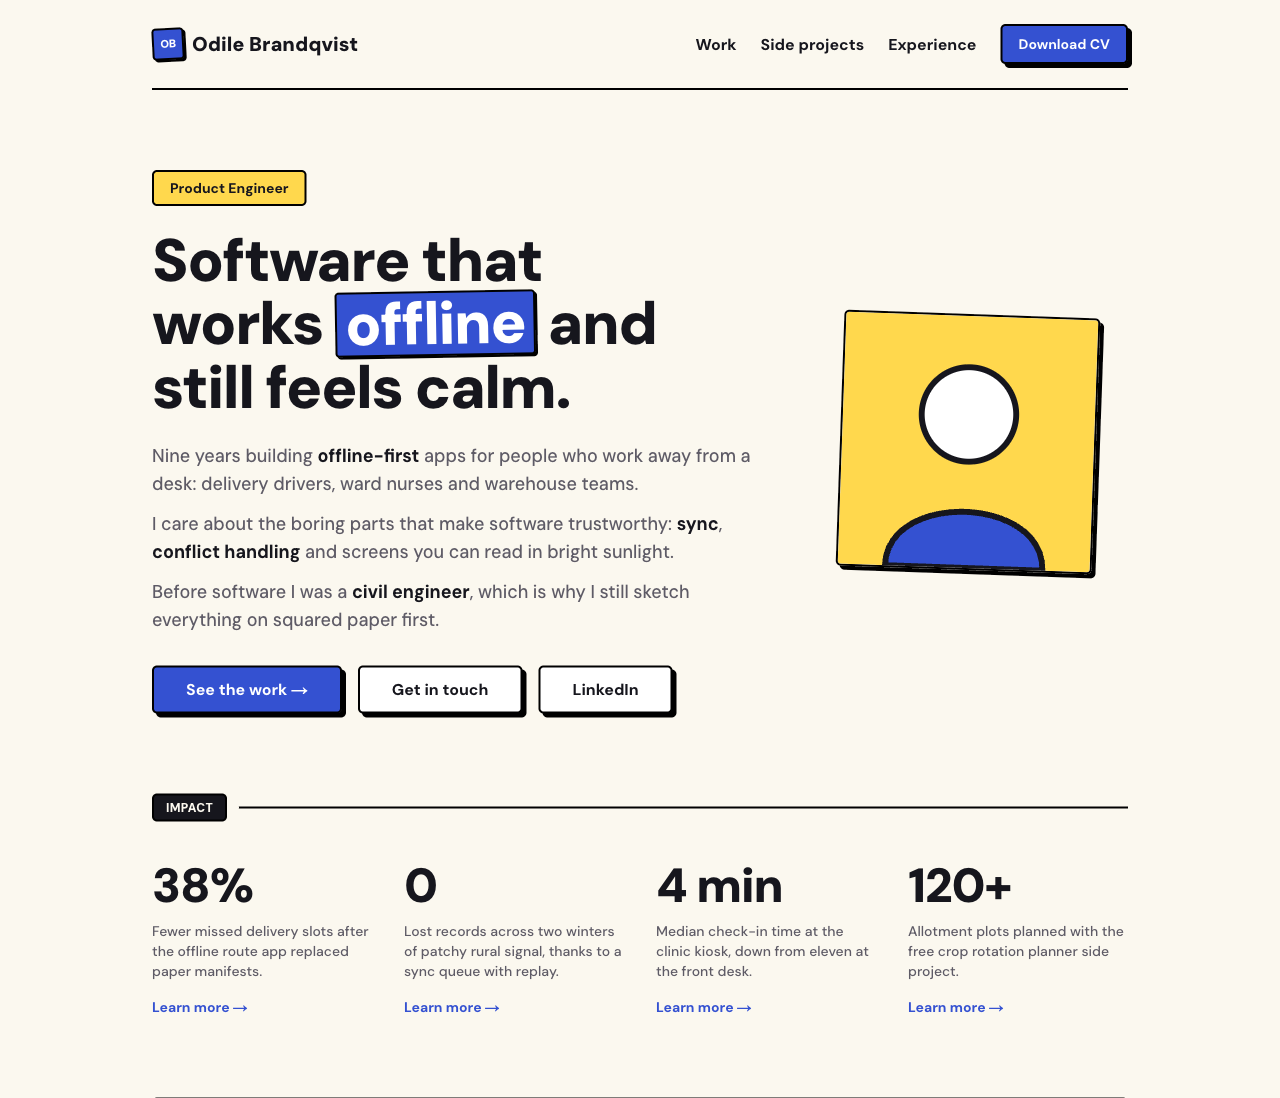
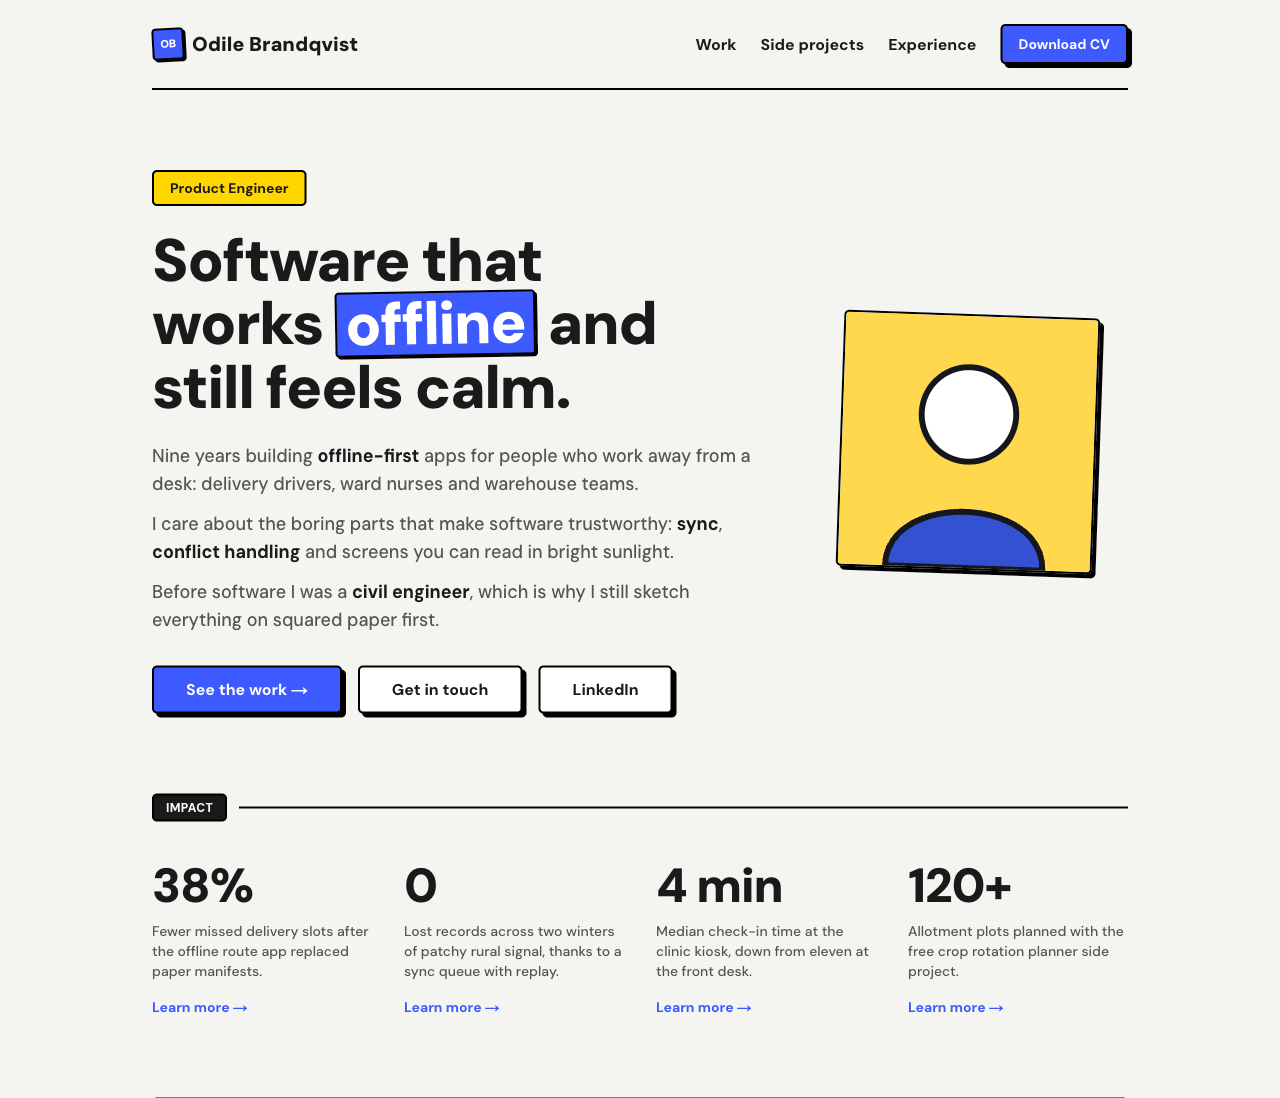
Colour themes: ready-made palettes, Block as the default
Adds themes.ts with ready-made themes (including pastels), switches the
sample site to Block, retakes the README screenshots in the new palette,
and documents how to pick a theme or change single colours.

diff --git a/themes.ts b/themes.ts
@@ -1,0 +1,266 @@
+// Ready-made colour themes. Pick one in site.config.ts (theme: themes.block),
+// or spread one and change single colours: { ...themes.mint, primary: "#0f7b5a" }.
+// Every button colour is tuned so its text passes WCAG AA contrast (4.5:1).
+// Several palettes are adapted from the neobrutalism palettes collected at
+// https://colorany.com/color-palettes/neobrutalism-color-palettes/.
+
+export type Theme = {
+  background: string;
+  foreground: string;
+  card: string;
+  muted: string;
+  mutedForeground: string;
+  primary: string;
+  primaryForeground: string;
+  secondary: string;
+  secondaryForeground: string;
+  accent: string;
+  accentForeground: string;
+  // Five tints for project cards without a cover image.
+  accents: string[];
+};
+
+export const themes = {
+  // Block, after "Bold Block Color Challenge"
+  block: {
+    background: "#f4f4f1",
+    foreground: "#1a1a1a",
+    card: "#ffffff",
+    muted: "#e6e6e1",
+    mutedForeground: "#55554f",
+    primary: "#3d5afe",
+    primaryForeground: "#ffffff",
+    secondary: "#ffd600",
+    secondaryForeground: "#1a1a1a",
+    accent: "#ff3d00",
+    accentForeground: "#1a1a1a",
+    accents: ["#3d5afe", "#ffd600", "#ff3d00", "#bdbdbd", "#00e5ff"],
+  },
+  // Cobalt
+  cobalt: {
+    background: "#fbf8ef",
+    foreground: "#16161d",
+    card: "#ffffff",
+    muted: "#efebdf",
+    mutedForeground: "#5e5b66",
+    primary: "#3451d1",
+    primaryForeground: "#ffffff",
+    secondary: "#ffd84d",
+    secondaryForeground: "#16161d",
+    accent: "#1f9e6e",
+    accentForeground: "#16161d",
+    accents: ["#3451d1", "#ffd84d", "#1f9e6e", "#b9a6ff", "#7cc8f2"],
+  },
+  // Coral
+  coral: {
+    background: "#fff5ee",
+    foreground: "#1d1414",
+    card: "#ffffff",
+    muted: "#f6e6da",
+    mutedForeground: "#6b5a55",
+    primary: "#d2462c",
+    primaryForeground: "#ffffff",
+    secondary: "#ffc94a",
+    secondaryForeground: "#1d1414",
+    accent: "#22737a",
+    accentForeground: "#ffffff",
+    accents: ["#d2462c", "#ffc94a", "#22737a", "#f4a3b4", "#8fd3c8"],
+  },
+  // Burst, after "Vivid Color Burst"
+  burst: {
+    background: "#fff7ef",
+    foreground: "#2c3a47",
+    card: "#ffffff",
+    muted: "#f6e8dc",
+    mutedForeground: "#5b6670",
+    primary: "#ff796b",
+    primaryForeground: "#2c3a47",
+    secondary: "#ffc84c",
+    secondaryForeground: "#2c3a47",
+    accent: "#4ecdc4",
+    accentForeground: "#2c3a47",
+    accents: ["#ff796b", "#ffc84c", "#4ecdc4", "#f7cac9", "#92a8d1"],
+  },
+  // Twist, after "Bold Color Twists"
+  twist: {
+    background: "#fbf3f4",
+    foreground: "#2b2d42",
+    card: "#ffffff",
+    muted: "#f1e3e6",
+    mutedForeground: "#5d6175",
+    primary: "#e9102c",
+    primaryForeground: "#ffffff",
+    secondary: "#f7c9d1",
+    secondaryForeground: "#2b2d42",
+    accent: "#2b2d42",
+    accentForeground: "#ffffff",
+    accents: ["#e9102c", "#f7c9d1", "#2b2d42", "#8d99ae", "#ffc84c"],
+  },
+  // Mint, after "Warm Mint Twist"
+  mint: {
+    background: "#f6fbf7",
+    foreground: "#2a2a2a",
+    card: "#ffffff",
+    muted: "#e4efe7",
+    mutedForeground: "#56605a",
+    primary: "#3eb489",
+    primaryForeground: "#2a2a2a",
+    secondary: "#fad02e",
+    secondaryForeground: "#2a2a2a",
+    accent: "#2a2a2a",
+    accentForeground: "#ffffff",
+    accents: ["#3eb489", "#fad02e", "#2a2a2a", "#a8dadc", "#f7cac9"],
+  },
+  // Playful, after "Playful Color Vibes"
+  playful: {
+    background: "#f8f6ff",
+    foreground: "#212121",
+    card: "#ffffff",
+    muted: "#ebe7f7",
+    mutedForeground: "#5d5a6b",
+    primary: "#7c4dff",
+    primaryForeground: "#ffffff",
+    secondary: "#ff6f00",
+    secondaryForeground: "#212121",
+    accent: "#00bfae",
+    accentForeground: "#212121",
+    accents: ["#7c4dff", "#ff6f00", "#00bfae", "#ffd600", "#f7cac9"],
+  },
+  // Nature, after "Nature Meets Bright Accents"
+  nature: {
+    background: "#f5f8f2",
+    foreground: "#0c3e25",
+    card: "#ffffff",
+    muted: "#e4ecdf",
+    mutedForeground: "#4b5f52",
+    primary: "#0c3e25",
+    primaryForeground: "#ffffff",
+    secondary: "#ffd700",
+    secondaryForeground: "#0c3e25",
+    accent: "#0073eb",
+    accentForeground: "#ffffff",
+    accents: ["#0c3e25", "#ffd700", "#0073eb", "#88b04b", "#a8dadc"],
+  },
+  // Earthy, after "Textural Contrast in Soft Hues"
+  earthy: {
+    background: "#fbf6ec",
+    foreground: "#264653",
+    card: "#ffffff",
+    muted: "#efe6d6",
+    mutedForeground: "#5a6a70",
+    primary: "#238173",
+    primaryForeground: "#ffffff",
+    secondary: "#e9c46a",
+    secondaryForeground: "#264653",
+    accent: "#f4a261",
+    accentForeground: "#264653",
+    accents: ["#238173", "#e9c46a", "#f4a261", "#7d4b8d", "#a8dadc"],
+  },
+  // Peach (pastel)
+  peach: {
+    background: "#fff8f3",
+    foreground: "#3b2f2f",
+    card: "#ffffff",
+    muted: "#f7e9e0",
+    mutedForeground: "#6e5f5c",
+    primary: "#f9a8a0",
+    primaryForeground: "#3b2f2f",
+    secondary: "#ffe5a3",
+    secondaryForeground: "#3b2f2f",
+    accent: "#b8e0d2",
+    accentForeground: "#3b2f2f",
+    accents: ["#f9a8a0", "#ffe5a3", "#b8e0d2", "#cdb4db", "#a2d2ff"],
+  },
+  // Lavender (pastel)
+  lavender: {
+    background: "#f8f5ff",
+    foreground: "#2e2a3f",
+    card: "#ffffff",
+    muted: "#ebe5f7",
+    mutedForeground: "#625d73",
+    primary: "#c3b1f5",
+    primaryForeground: "#2e2a3f",
+    secondary: "#ffd6e8",
+    secondaryForeground: "#2e2a3f",
+    accent: "#b5ead7",
+    accentForeground: "#2e2a3f",
+    accents: ["#c3b1f5", "#ffd6e8", "#b5ead7", "#fff1a8", "#a8d8f0"],
+  },
+  // Sky (pastel)
+  sky: {
+    background: "#f4f9ff",
+    foreground: "#1f2a3a",
+    card: "#ffffff",
+    muted: "#e2ecf7",
+    mutedForeground: "#56627a",
+    primary: "#9cc9f5",
+    primaryForeground: "#1f2a3a",
+    secondary: "#ffd8a8",
+    secondaryForeground: "#1f2a3a",
+    accent: "#f7b2c4",
+    accentForeground: "#1f2a3a",
+    accents: ["#9cc9f5", "#ffd8a8", "#f7b2c4", "#c7f0bd", "#e2c6ff"],
+  },
+  // Stone (neutral): warm greys with a terracotta accent
+  stone: {
+    background: "#f5f3ef",
+    foreground: "#1f1d1a",
+    card: "#ffffff",
+    muted: "#e8e4dc",
+    mutedForeground: "#5c5750",
+    primary: "#44403c",
+    primaryForeground: "#ffffff",
+    secondary: "#e7e0d2",
+    secondaryForeground: "#1f1d1a",
+    accent: "#b4532a",
+    accentForeground: "#ffffff",
+    accents: ["#44403c", "#e7e0d2", "#b4532a", "#a8a29e", "#d6cfc4"],
+  },
+  // Sand (neutral): beige and sage
+  sand: {
+    background: "#faf6ee",
+    foreground: "#2b2620",
+    card: "#ffffff",
+    muted: "#eee6d6",
+    mutedForeground: "#655c50",
+    primary: "#7a6a52",
+    primaryForeground: "#ffffff",
+    secondary: "#eadfc8",
+    secondaryForeground: "#2b2620",
+    accent: "#5f7161",
+    accentForeground: "#ffffff",
+    accents: ["#7a6a52", "#eadfc8", "#5f7161", "#c8b99c", "#b7c4b1"],
+  },
+  // Slate (neutral): cool blue greys
+  slate: {
+    background: "#f3f5f7",
+    foreground: "#1e2329",
+    card: "#ffffff",
+    muted: "#e2e7ec",
+    mutedForeground: "#56606b",
+    primary: "#3c4a5a",
+    primaryForeground: "#ffffff",
+    secondary: "#dde3ea",
+    secondaryForeground: "#1e2329",
+    accent: "#677689",
+    accentForeground: "#ffffff",
+    accents: ["#3c4a5a", "#dde3ea", "#677689", "#a9b4c0", "#c9d2db"],
+  },
+  // Graphite (neutral): black, white and grey
+  graphite: {
+    background: "#f2f2f0",
+    foreground: "#121212",
+    card: "#ffffff",
+    muted: "#e3e3e0",
+    mutedForeground: "#595959",
+    primary: "#2b2b2b",
+    primaryForeground: "#ffffff",
+    secondary: "#dcdcd8",
+    secondaryForeground: "#121212",
+    accent: "#6e6e6e",
+    accentForeground: "#ffffff",
+    accents: ["#2b2b2b", "#dcdcd8", "#6e6e6e", "#a3a3a0", "#c4c4c0"],
+  },
+} satisfies Record<string, Theme>;
+
+export type ThemeName = keyof typeof themes;

diff --git a/site.config.ts b/site.config.ts
@@ -8,6 +8,8 @@
 // Feature flags can also be switched per deployment with environment
 // variables (see .env.example), which win over the values below.
 
+import { themes } from "./themes";
+
 export type SiteConfig = typeof siteConfig;
 
 export const siteConfig = {
@@ -55,22 +57,12 @@ export const siteConfig = {
   },
 
   // Colours for the whole site. The neo-brutalist structure (thick borders,
-  // hard shadows) stays; these only change the hues.
-  theme: {
-    background: "#fbf8ef",
-    foreground: "#16161d",
-    card: "#ffffff",
-    muted: "#efebdf",
-    mutedForeground: "#5e5b66",
-    primary: "#3451d1",
-    primaryForeground: "#ffffff",
-    secondary: "#ffd84d",
-    secondaryForeground: "#16161d",
-    accent: "#1f9e6e",
-    accentForeground: "#ffffff",
-    // Five tints for project cards without a cover image.
-    accents: ["#3451d1", "#ffd84d", "#1f9e6e", "#b9a6ff", "#7cc8f2"],
-  },
+  // hard shadows) stays; the theme only changes the hues. Ready-made themes:
+  // block, cobalt, coral, burst, twist, mint, playful, nature, earthy, and the
+  // pastels peach, lavender and sky, and the neutrals stone, sand, slate and
+  // graphite (see themes.ts). To change single colours:
+  // theme: { ...themes.block, primary: "#2244dd" },
+  theme: themes.block,
 
   hero: {
     badge: "Product Engineer",

diff --git a/README.md b/README.md
@@ -20,6 +20,7 @@ Everything is already done for you.
 | **Admin panel** | Edit projects, tags, FAQs and experience in the browser at `/admin`. |
 | **Security** | Every admin action checks the session, login attempts are limited, and AI inputs have length caps. |
 | **Rate limits** | Per-IP limits on every AI endpoint. |
+| **Colour themes** | Ready-made [colour themes](#colour-themes), including pastels, switched with one line. |
 | **Feature flags** | Switch any part off in `site.config.ts` or with an environment variable. |
 | **Optional AI layer** | Switch the chat, the fit check and the MCP server off and you have a plain portfolio. |
 
@@ -75,7 +76,7 @@ The portfolio is a full site on its own. These are its pages, shown with the sam
 | Part | Where it lives |
 |---|---|
 | Projects, experience, FAQs, tags | Postgres. Loaded from the JSON files in `content/` with `npm run db:seed`, or edited in `/admin`. |
-| Name, hero text, stats, journey, colours, contact links | `site.config.ts`, one file for everything person-specific. |
+| Name, hero text, stats, journey, colour theme, contact links | `site.config.ts`, one file for everything person-specific. |
 | Images | `public/`, with project images in `public/projects/<slug>/`. |
 | CV | `public/cv.pdf`. |
 
@@ -198,12 +199,18 @@ Without `DATABASE_URL` the steps are skipped and only the site is built. `npm ru
 
 ## Make it yours
 
-1. **`site.config.ts`** holds everything person-specific: name, initials, role, contact, socials, hero text, stats, journey, colours, chat persona and suggestions, fit-check criteria, MCP server name, CV file name, admin label, SEO and feature flags. Start here.
+1. **`site.config.ts`** holds everything person-specific: name, initials, role, contact, socials, hero text, stats, journey, colour theme (see [Colour themes](#colour-themes)), chat persona and suggestions, fit-check criteria, MCP server name, CV file name, admin label, SEO and feature flags. Start here.
 2. **`content/`** holds the sample content. Replace `content/projects/*.json` (same shape as `scripts/example-project.json`), `content/experience.json` and `content/faqs.json`, then run `npm run db:seed` and `npm run rag:ingest`. The seed upserts by slug, so remove the sample projects in `/admin` or with `npm run project:delete -- <slug>`.
 3. **Images** go in `public/`. Project images live in `public/projects/<slug>/`; their sizes are measured at install and build time so covers of the right shape fill their card. Replace `public/avatar.svg` with your photo (and update `person.photo`).
 4. **CV:** replace `public/cv.pdf` with your own.
 5. **`/admin`** lets you edit all content in the browser once deployed. Every save updates the chat's search index in the background.
 6. **Single projects from the command line:** `npm run project:upsert -- path/to/project.json`.
+
+### Colour themes
+
+![Ready-made colour themes, each shown as a small card with a headline, buttons and its palette](docs/images/themes.png)
+
+Pick a theme in `site.config.ts` with one line, for example `theme: themes.coral`. The themes live in `themes.ts`. To change single colours, spread a theme and override what you need: `theme: { ...themes.block, primary: "#2244dd" }`. Every button colour in the ready-made themes passes WCAG AA contrast (text stays readable on it).
 
 ## Feature flags
 
@@ -276,6 +283,7 @@ docker-compose.yml    local Postgres with pgvector
 
 * [shadcn/ui](https://ui.shadcn.com) for the UI primitives in `src/components/ui/` (MIT).
 * [neobrutalism.dev](https://www.neobrutalism.dev) ([neobrutalism-components](https://github.com/ekmas/neobrutalism-components), MIT, by Samuel Breznjak) for the neo-brutalist border, shadow and radius structure.
+* Several themes are adapted from the [neobrutalism palettes collected on colorany.com](https://colorany.com/color-palettes/neobrutalism-color-palettes/).
 * [Simple Icons](https://simpleicons.org) for the GitHub mark (CC0).
 * DM Sans and Geist Mono fonts (SIL Open Font License), via `next/font`.
 * Built on Next.js, React, Prisma, pgvector, Tailwind CSS, OpenAI, mcp-handler, unpdf and mammoth.
